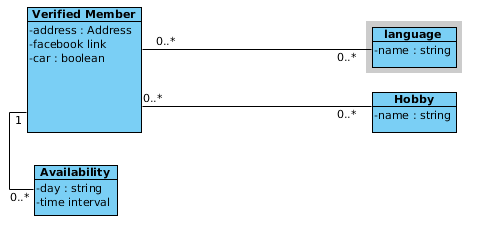
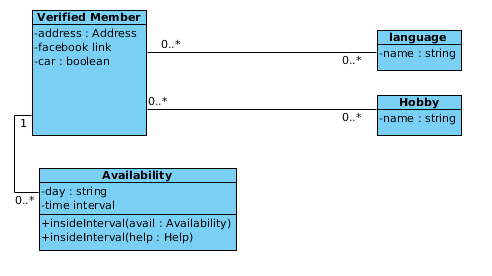
some spelling correction + verified member diagram modif

Changed region(s): [[0.0, 0.0292, 0.9509, 0.9333]]

diff --git a/rapports/3_design_report/report_phase3.tex b/rapports/3_design_report/report_phase3.tex
@@ -76,10 +76,12 @@ Furthermore, it promotes minimalist UI design that makes it is easier and quicke
 
 \section{Sequence diagrams}
 
-For the sequence diagrams we picked the same use cases than the activity diagrams because in our first report it lacked some details.
-In the second report, we added the create account sequence diagram because it is a important part of the software and it was missing from our first report.
+The sequence diagrams are based on the same use cases than the activity diagrams. In our first report, it lacked some details and we wanted
+to compensate the deficiencies with sequence diagrams. In the second report, we also added the \enquote{create account} sequence diagram because we think that it is a important part of the user work-flow even if normally the user only register once.
 
-In this report, we have modified some of the sequence diagrams taking into account the remarks made after our second report.
+In this report, we have modified some of the sequence diagrams and created a new one called \enquote{LoginWithSocialMedia} to take into account the remarks made after our second report about some inconsistencies and the social media extension.
+
+You can see below the modified diagrams and their descriptions.
 
 \begin{figure}[!ht]
    \includegraphics[width=\textwidth]{requestHelp.png}
@@ -89,10 +91,9 @@ In this report, we have modified some of the sequence diagrams taking into accou
 On figure ~\ref{requestHelp} : The user need some help and he is going to create a new request. For that he click on the \enquote{I need help}
 and he is redirected to a page where he needs to fill in informations about the jobs. Afterward the system check the data entered by the user.
 If it is correct create the request and add it to the list of request on the home page. The system also send a notification to the members that
-correspond to the criterias of the request using their preferences. If the data are not correct it send an error message to the user.
+correspond to the criteria of the request using their preferences. If the data are not correct it send an error message to the user.
 
-The main modification on figure {requestingHelp} is that the action \enquote{publish on home page} is now done by the system. You can see below the modified 
-diagrams and their descriptions.
+The main modification on figure {requestingHelp} is that the action \enquote{publish on home page} is now done by the system. 
 
 \begin{figure}[!ht]
    \includegraphics[width=\textwidth]{completeJob.png}
@@ -103,22 +104,20 @@ On figure ~\ref{completeJob} : The user has completed a job and want to get time
 
 The system will send a notification to the demanding member (member which has been helped) and this member need to confirm that the job has been done correctly.
 
-Unfortunatly it can happen that the member does not confirm because for example, he has no internet access. In this case, after some times, the system will send a message to the branch officer and ask him to confirm by himself.
+Unfortunately it can happen that the member does not confirm because for example, he has no Internet access. In this case, after some times, the system will send a message to the branch officer and ask him to confirm by himself.
 
 The main modification on figure {completeAJob} is that the system send a message to the branch officer if the demanding member does not confirm after a certain period of time. (I didn't find a way to show the waiting time)
 
 \subsection{Login with Social Media}
-
-In this report, we also added a new sequence diagram called \enquote{LoginWithSocialMedia}. We did that becaus in the second report we talked about the social media extension but we did not explain how we will integrate it in our own software.
 
 \begin{figure}[!ht]
    \includegraphics[width=\textwidth]{loginWithSocialMedia.png}
    \caption{\label{loginWithSocialMedia} Login with social media}
 \end{figure}
 
-On the figure ~\ref{loginWithSocialMedia} you can see that the client wants to authenticate using a social media like Google+ or Facebook. These social medias all give the possibility to sign in on your web site using their account. Usually they have multiple way to do it but the most common one is throw javascript using a API. We choose that approach because we plan to support multiple social media.
+On the figure ~\ref{loginWithSocialMedia} you can see that the client wants to authenticate using a social media like Google+ or Facebook. These social medias all give the possibility to sign in on your web site using their account. Usually they have multiple way to do it but the most common one is using Javascript that call a API. We choose that approach because we plan to support multiple social media.
 
-In fact in this diagram the client directly use javascript to contact the social media API server to login. Than the social media API server check first if the credential are correct and second if the user already allowed this website to access his account and ask the user permission otherwise. 
+In fact in this diagram the client directly contact the social media API server using Javascript to login. Than the social media API server check if the credential are correct and if the user already allowed this website to access his account and ask the user permission otherwise. 
 Finally the server send back the token which will be use to authenticate the user for the API calls and the client will send some informations about his account to our application.
 
 
@@ -143,15 +142,19 @@ On the figure ~\ref{phase3MainClassDiagram},our main class diagram, we did the f
 \item We added all the missing parameters to the function
 \item We added new function to some classes 
 \item We added type to attributes
-\item We created new classes 
+\item We created new classes
 \end{itemize}
+
+\subsubsection{Transfer class}
+
+The new classe Transfer will be use to track credit gifts from member and credit rewards for completed jobs. This class is link with two member, a giver and a receiver and optionally with a Help in case of a reward. This will enable us to keep a history of all the transactions of a user.
 
 \subsubsection{Member class}
 
-The class member has now more functions :
+The class member has now more functionality :
 \begin{itemize}
 \item A function to share on a social Media like Facebook / Google+
-\item Some functions to add/remove a user to/from their personnal network/favorite/ignored list.
+\item Some functions to add/remove a user to/from their personal network/favorite/ignored list.
 \item Some functions to (un)subscribe to a branch.
 \end{itemize}
 
@@ -173,8 +176,7 @@ The class help has now function regarding searching for features and demands
 
 On figure ~\ref{verifiedMember} you can see new class diagram which describe in more details the attributes of the class.
 
-The time availability, language and hobby are now seperate classes instead of attributes because they are not as simple as the other
-attributes. 
+The time availability, language and hobby are now separate classes instead of attributes because they will be more complexe things to represent in our program. For example language and hobby are list of values and time availability is a object with method like \enquote{insideInterval} to check if some Help can be match with a user schedule.
 
 \subsection{Preferences and Address diagrams}
 
@@ -188,12 +190,12 @@ for the class preferences.
 
 
 
-\section{Team Organisation}
+\section{Team Organization}
 
 To do the job, we have divided our team into groups of two.
 Then we divided the jobs in tasks that have been then assigned to groups.
-We set some deadlines to avoid last minut rush.
-To organise our work, we use several tools including Trello and Github. 
+We set some deadlines to avoid last minute rush.
+To organize our work, we use several tools including Trello and Github. 
 
 \subsection{Trello}
 
@@ -202,11 +204,11 @@ To organise our work, we use several tools including Trello and Github.
    \caption{\label{trello} Trello}
 \end{figure}
 
-Trello allows our team to organise the tasks scheduling.
+Trello allows our team to organize the tasks scheduling.
 We can create task and assign them to our members.
 We are able to update each card and sort them by lists.
 For the moment, as you can see on figure~\ref{trello}, we have four lists : \tit{Backlog}, \tit{To do}, \tit{Doing} and \tit{Done since beginning}.
-This organisation is really helpful because we can see the progression in a glance.
+This organization is really helpful because we can see the progression in a glance.
 
 \subsection{Github} 
 
